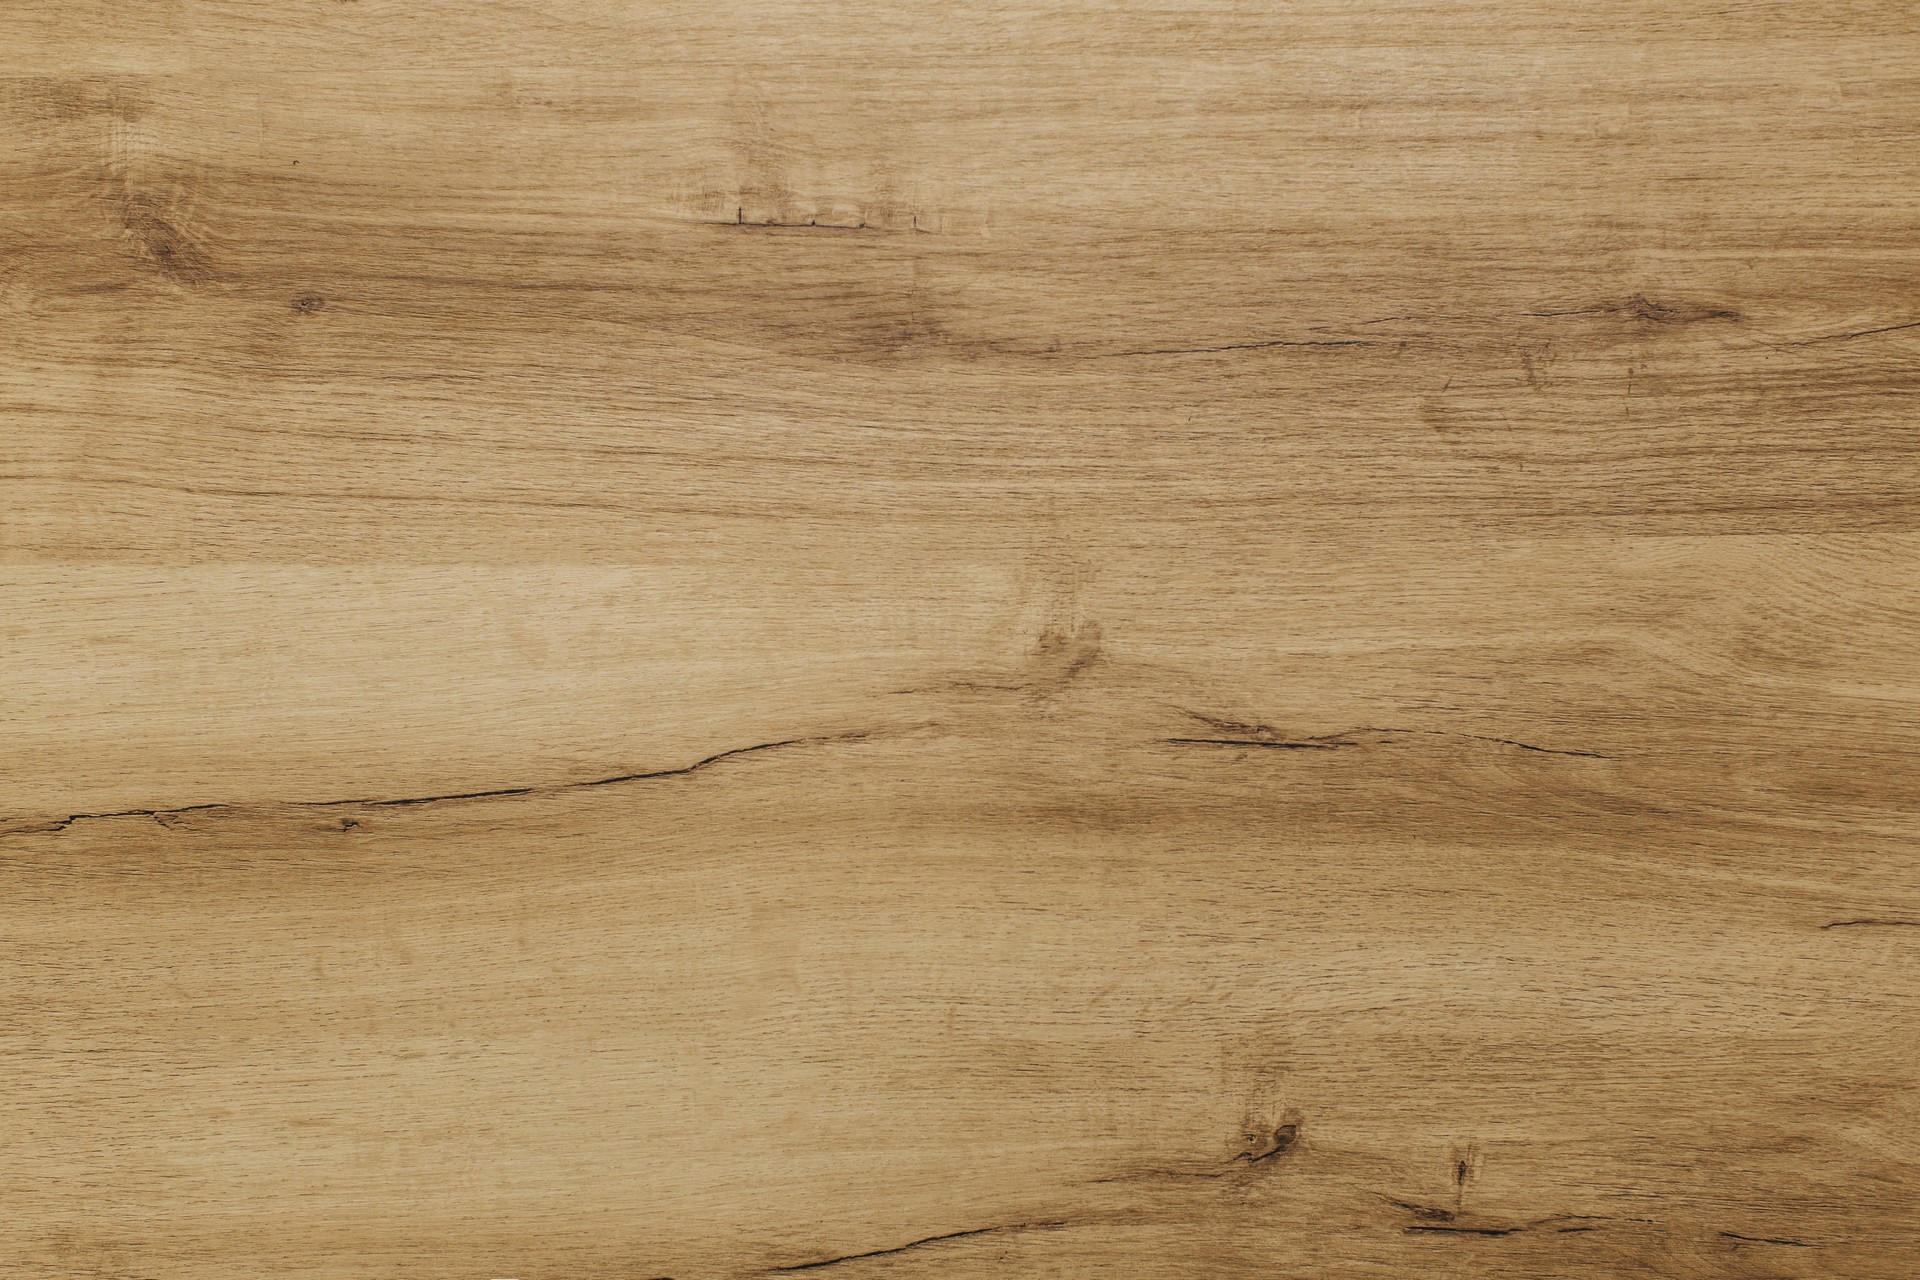
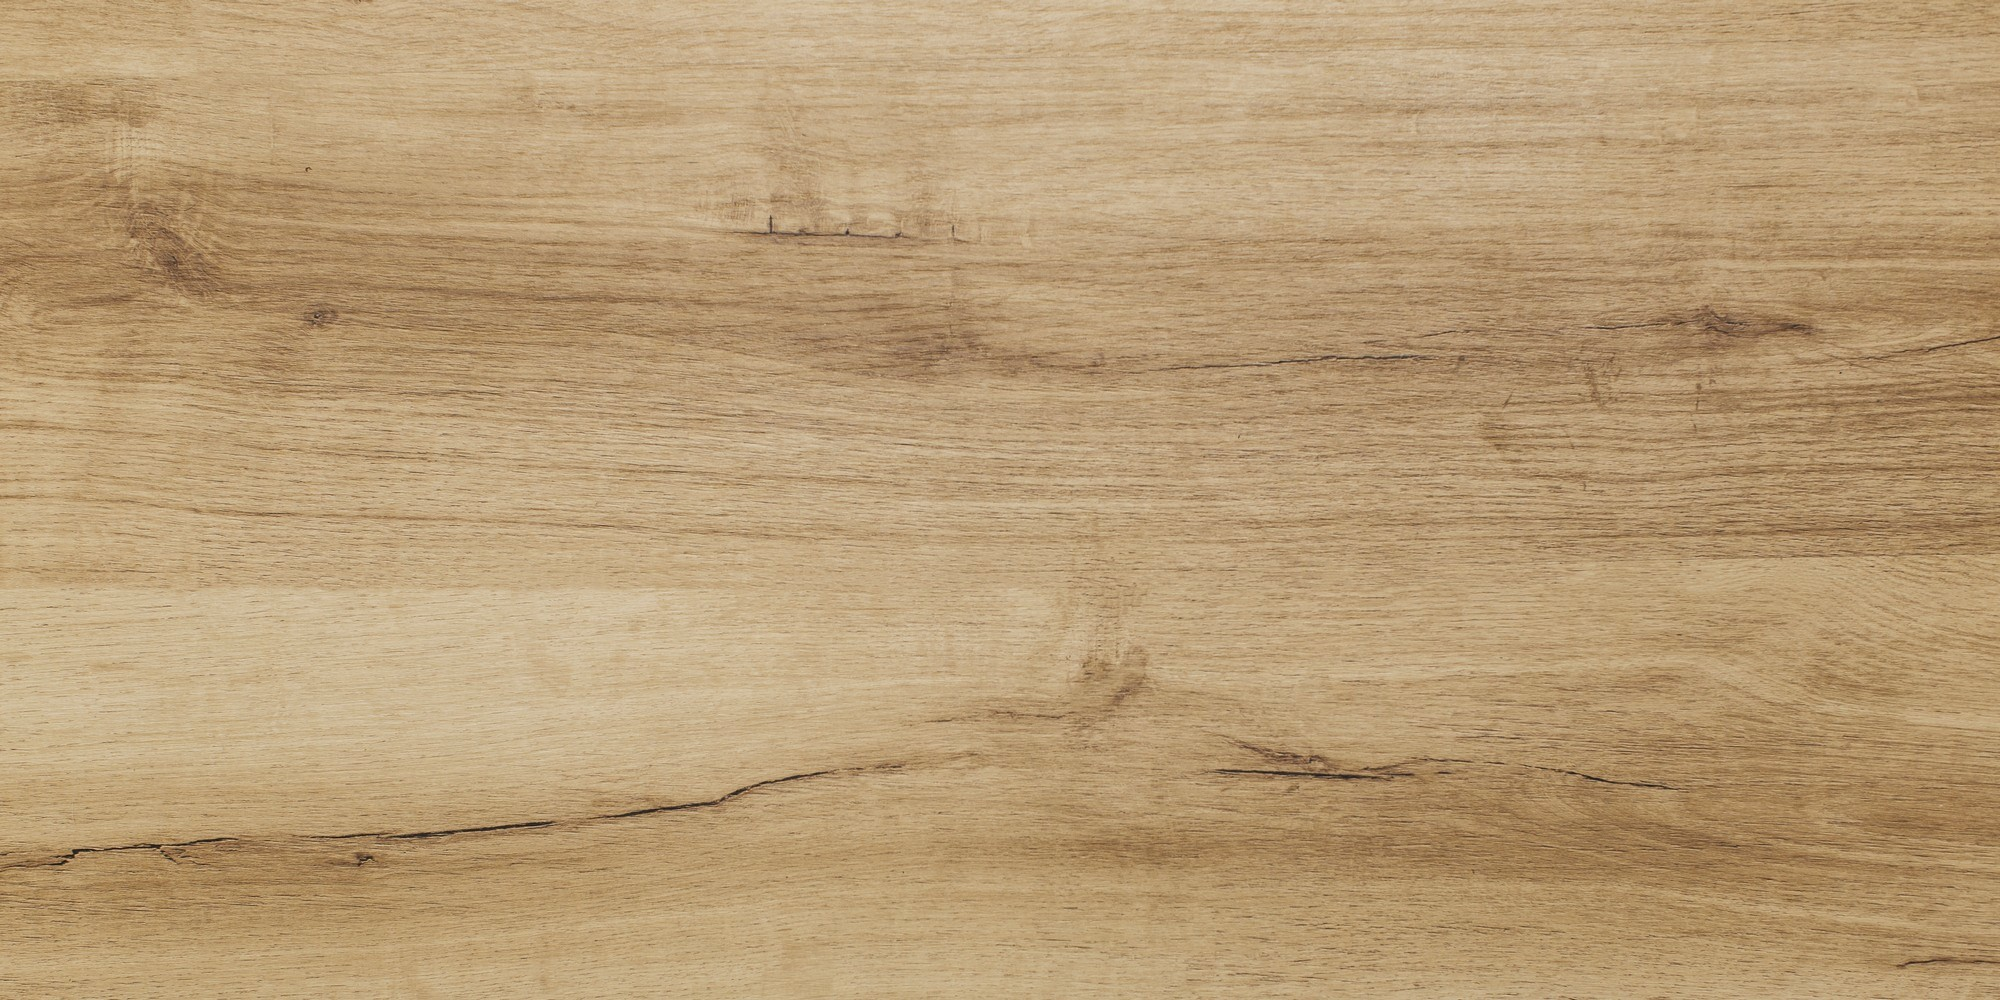
optimisation d'images p.4 & réorganisation de css

diff --git a/public/assets/css/pages/services_lines.css b/public/assets/css/pages/services_lines.css
@@ -1,14 +1,19 @@
 
+/* ================================================================================================================================= */
+/* --------------------------------------------------------------------------------------------------------------------------------- */
+/* STYLE GLOBALE A SERVICE */
+
+
 .classic-section {
-    background-color: #2f5b0e28;
+    background-color: var(--second-filter-color);
 }
 
 .package-section {
-    background-color: #c0855248;
+    background-color: var(--brown-filter-color);
 }
 
 .special-section {
-    background-color: #e768993d;
+    background-color: var(--special-dark-filter);
 }
 
 .special-section .service, .classic-section .service, .package-section .service {
@@ -26,6 +31,13 @@
 .package-section .service {
     border: var(--border-brown-solid);
 }
+
+
+
+
+/* ================================================================================================================================= */
+/* --------------------------------------------------------------------------------------------------------------------------------- */
+/* STYLE SPECIFIQUE POUR SERVICE EN LIGNE */
 
 
 .services-line-img {

diff --git a/public/assets/css/pages/services_categories.css b/public/assets/css/pages/services_categories.css
@@ -4,7 +4,7 @@
 
 .background-services {
     position: relative;
-    background-image: url(../../img/backgrounds/leafs4.jpg);
+    background-image: url(../../img/backgrounds/min_leafs.webp);
     border: var(--border-brown-thin-solid);
     box-shadow: rgba(27, 70, 33, 0.39) 0px 7px 29px 0px;
 }
@@ -27,7 +27,8 @@
 }
 
 .services {
-    background-image: url(../../img/backgrounds/bois.jpg);
+    background-image: url(../../img/backgrounds/min_bois.webp);
+    background-position: center;
     color: var(--main-color);
     font-size: 1.1rem;
     /* font-weight: bold; */
@@ -46,6 +47,8 @@
 
 .services p {
     text-shadow: var(--text-shadow);
+    backdrop-filter: blur(3px);
+    /* color: black; */
     /* font-weight: bold; */
 }
 
@@ -93,7 +96,7 @@
 @media (min-width: 1200px)  {
 
     .content-services {
-        height: 250px;
+        height: 270px;
     }
 
     .services img {

diff --git a/public/assets/css/variables.css b/public/assets/css/variables.css
@@ -1,8 +1,6 @@
 :root {
 
-    /* --main-color: #fdf3fd; */
     --main-color: #ffffff;
-    /* --main-color: #fcf6fc; */
     --main-dark-color: #212529;
 
     --light-green:#c2ddad;
@@ -23,6 +21,7 @@
     /* --second-filter-color: #2f5b0e8c; */
     --second-filter-color: #2f5b0e28;
     --brown-filter-color: #c0855248;
+    --special-dark-filter: #e768993d;
 
     --special-font: 'Petrona', serif;
     --main-font: 'Lato', sans-serif;

diff --git a/public/assets/css/components/form.css b/public/assets/css/components/form.css
@@ -1,4 +1,14 @@
-/* @import url('variables.css'); */
+
+.bg-form {
+    border: var(--border-first-solid);
+}
+
+.bg-form img {
+    height: 100%;
+    width: 100%;
+    object-fit: cover;
+}
+
 
 input[type="number"]::-webkit-inner-spin-button,
 input[type="number"]::-webkit-outer-spin-button {

diff --git a/public/assets/css/main.css b/public/assets/css/main.css
@@ -33,7 +33,6 @@
 @import url('./pages/notice.css');
 @import url('./pages/services_grid.css');
 @import url('./pages/services_lines.css');
-@import url('./pages/contact.css');
 @import url('./pages/construction.css');
 @import url('./pages/services_categories.css');
 

diff --git a/public/assets/css/others/text.css b/public/assets/css/others/text.css
@@ -54,7 +54,7 @@ h1 {
 }
 
 .background-title {
-    background-image: url(../../img/backgrounds/leafs4.webp);
+    background-image: url(../../img/backgrounds/leafs.webp);
     background-size: cover;
     background-attachment: fixed;
     height: 35vh;

diff --git a/public/assets/css/pages/home.css b/public/assets/css/pages/home.css
@@ -92,7 +92,7 @@
     background-image: url(../../img/backgrounds/bois.jpg);
     background-size: cover;
     background-repeat: no-repeat;
-    box-shadow: var(--inset-shadow);
+    /* box-shadow: var(--inset-shadow); */
 }
 
 .prestations-div-text {

diff --git a/public/assets/css/components/streamer.css b/public/assets/css/components/streamer.css
@@ -96,7 +96,6 @@
     
     #announcement span {
         font-size: 4rem;
-        color: var(--special-color);
     }
 
     /* ------------------------------------------------- */
